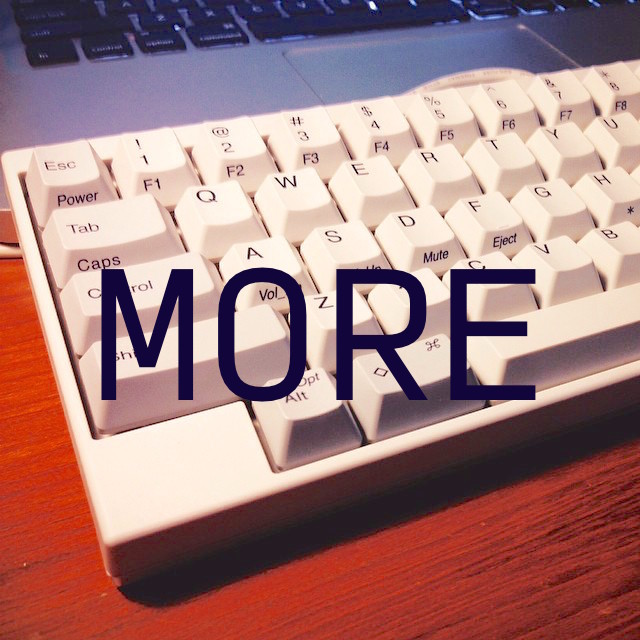
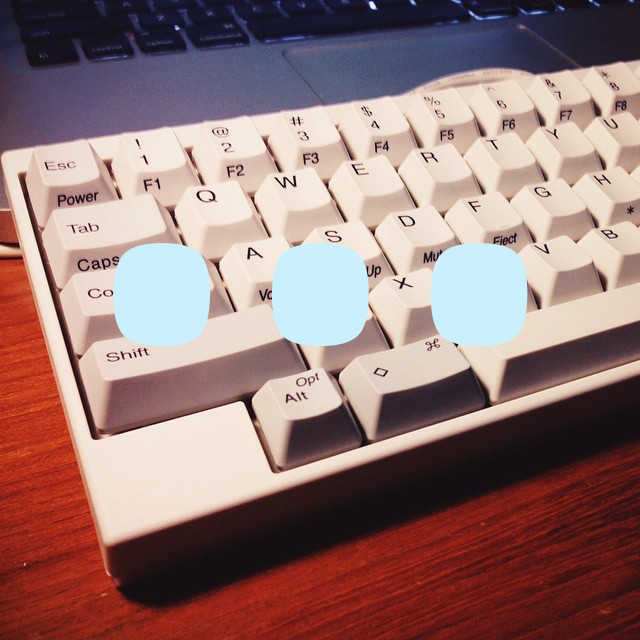
Minor fix

diff --git a/_site/experiences/2001/01/01/exp/index.html b/_site/experiences/2001/01/01/exp/index.html
@@ -154,7 +154,7 @@ max-height:40px;" src="img/logo/logo.png" alt=""> &nbspWesley W. Q.</a>
 	        <div class="row">
 	            	<div id "insta_container" style="text-align:center">
 						<div id="instafeed">
-						      <a id="more_link" href="#" onClick="return false;"><img class"more_link" src="img/keyboard_original copy.jpg"/></a>
+						      <a id="more_link" href="#" onClick="return false;"><img class"more_link" src="img/keyboard.jpg"/></a>
 						</div>
 
 					</div>

diff --git a/_site/experiences/2010/01/01/exp/index.html b/_site/experiences/2010/01/01/exp/index.html
@@ -154,7 +154,7 @@ max-height:40px;" src="img/logo/logo.png" alt=""> &nbspWesley W. Q.</a>
 	        <div class="row">
 	            	<div id "insta_container" style="text-align:center">
 						<div id="instafeed">
-						      <a id="more_link" href="#" onClick="return false;"><img class"more_link" src="img/keyboard_original copy.jpg"/></a>
+						      <a id="more_link" href="#" onClick="return false;"><img class"more_link" src="img/keyboard.jpg"/></a>
 						</div>
 
 					</div>

diff --git a/_site/experiences/2020/01/01/exp/index.html b/_site/experiences/2020/01/01/exp/index.html
@@ -154,7 +154,7 @@ max-height:40px;" src="img/logo/logo.png" alt=""> &nbspWesley W. Q.</a>
 	        <div class="row">
 	            	<div id "insta_container" style="text-align:center">
 						<div id="instafeed">
-						      <a id="more_link" href="#" onClick="return false;"><img class"more_link" src="img/keyboard_original copy.jpg"/></a>
+						      <a id="more_link" href="#" onClick="return false;"><img class"more_link" src="img/keyboard.jpg"/></a>
 						</div>
 
 					</div>

diff --git a/_site/index.html b/_site/index.html
@@ -154,7 +154,7 @@ max-height:40px;" src="img/logo/logo.png" alt=""> &nbspWesley W. Q.</a>
 	        <div class="row">
 	            	<div id "insta_container" style="text-align:center">
 						<div id="instafeed">
-						      <a id="more_link" href="#" onClick="return false;"><img class"more_link" src="img/keyboard_original copy.jpg"/></a>
+						      <a id="more_link" href="#" onClick="return false;"><img class"more_link" src="img/keyboard.jpg"/></a>
 						</div>
 
 					</div>

diff --git a/_site/projects/2001/01/01/pro/index.html b/_site/projects/2001/01/01/pro/index.html
@@ -154,7 +154,7 @@ max-height:40px;" src="img/logo/logo.png" alt=""> &nbspWesley W. Q.</a>
 	        <div class="row">
 	            	<div id "insta_container" style="text-align:center">
 						<div id="instafeed">
-						      <a id="more_link" href="#" onClick="return false;"><img class"more_link" src="img/keyboard_original copy.jpg"/></a>
+						      <a id="more_link" href="#" onClick="return false;"><img class"more_link" src="img/keyboard.jpg"/></a>
 						</div>
 
 					</div>

diff --git a/_site/projects/2010/01/01/pro/index.html b/_site/projects/2010/01/01/pro/index.html
@@ -154,7 +154,7 @@ max-height:40px;" src="img/logo/logo.png" alt=""> &nbspWesley W. Q.</a>
 	        <div class="row">
 	            	<div id "insta_container" style="text-align:center">
 						<div id="instafeed">
-						      <a id="more_link" href="#" onClick="return false;"><img class"more_link" src="img/keyboard_original copy.jpg"/></a>
+						      <a id="more_link" href="#" onClick="return false;"><img class"more_link" src="img/keyboard.jpg"/></a>
 						</div>
 
 					</div>

diff --git a/_site/projects/2020/01/01/pro/index.html b/_site/projects/2020/01/01/pro/index.html
@@ -154,7 +154,7 @@ max-height:40px;" src="img/logo/logo.png" alt=""> &nbspWesley W. Q.</a>
 	        <div class="row">
 	            	<div id "insta_container" style="text-align:center">
 						<div id="instafeed">
-						      <a id="more_link" href="#" onClick="return false;"><img class"more_link" src="img/keyboard_original copy.jpg"/></a>
+						      <a id="more_link" href="#" onClick="return false;"><img class"more_link" src="img/keyboard.jpg"/></a>
 						</div>
 
 					</div>

diff --git a/_site/projects/2030/01/01/pro/index.html b/_site/projects/2030/01/01/pro/index.html
@@ -154,7 +154,7 @@ max-height:40px;" src="img/logo/logo.png" alt=""> &nbspWesley W. Q.</a>
 	        <div class="row">
 	            	<div id "insta_container" style="text-align:center">
 						<div id="instafeed">
-						      <a id="more_link" href="#" onClick="return false;"><img class"more_link" src="img/keyboard_original copy.jpg"/></a>
+						      <a id="more_link" href="#" onClick="return false;"><img class"more_link" src="img/keyboard.jpg"/></a>
 						</div>
 
 					</div>

diff --git a/_site/projects/2033/01/01/pro/index.html b/_site/projects/2033/01/01/pro/index.html
@@ -154,7 +154,7 @@ max-height:40px;" src="img/logo/logo.png" alt=""> &nbspWesley W. Q.</a>
 	        <div class="row">
 	            	<div id "insta_container" style="text-align:center">
 						<div id="instafeed">
-						      <a id="more_link" href="#" onClick="return false;"><img class"more_link" src="img/keyboard_original copy.jpg"/></a>
+						      <a id="more_link" href="#" onClick="return false;"><img class"more_link" src="img/keyboard.jpg"/></a>
 						</div>
 
 					</div>

diff --git a/_site/projects/2036/01/01/pro/index.html b/_site/projects/2036/01/01/pro/index.html
@@ -154,7 +154,7 @@ max-height:40px;" src="img/logo/logo.png" alt=""> &nbspWesley W. Q.</a>
 	        <div class="row">
 	            	<div id "insta_container" style="text-align:center">
 						<div id="instafeed">
-						      <a id="more_link" href="#" onClick="return false;"><img class"more_link" src="img/keyboard_original copy.jpg"/></a>
+						      <a id="more_link" href="#" onClick="return false;"><img class"more_link" src="img/keyboard.jpg"/></a>
 						</div>
 
 					</div>

diff --git a/_site/projects/2040/01/01/pro/index.html b/_site/projects/2040/01/01/pro/index.html
@@ -154,7 +154,7 @@ max-height:40px;" src="img/logo/logo.png" alt=""> &nbspWesley W. Q.</a>
 	        <div class="row">
 	            	<div id "insta_container" style="text-align:center">
 						<div id="instafeed">
-						      <a id="more_link" href="#" onClick="return false;"><img class"more_link" src="img/keyboard_original copy.jpg"/></a>
+						      <a id="more_link" href="#" onClick="return false;"><img class"more_link" src="img/keyboard.jpg"/></a>
 						</div>
 
 					</div>

diff --git a/_site/projects/2050/01/01/pro/index.html b/_site/projects/2050/01/01/pro/index.html
@@ -154,7 +154,7 @@ max-height:40px;" src="img/logo/logo.png" alt=""> &nbspWesley W. Q.</a>
 	        <div class="row">
 	            	<div id "insta_container" style="text-align:center">
 						<div id="instafeed">
-						      <a id="more_link" href="#" onClick="return false;"><img class"more_link" src="img/keyboard_original copy.jpg"/></a>
+						      <a id="more_link" href="#" onClick="return false;"><img class"more_link" src="img/keyboard.jpg"/></a>
 						</div>
 
 					</div>
